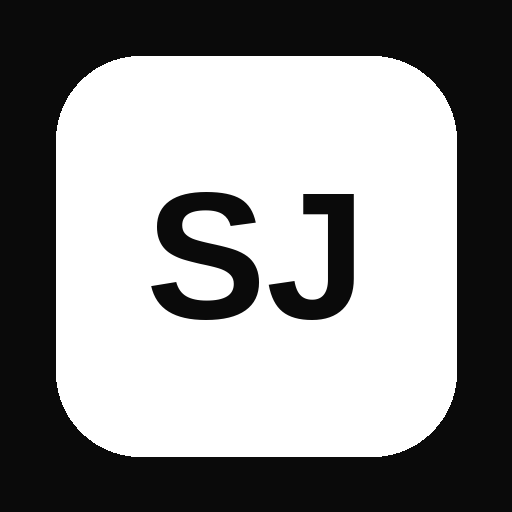
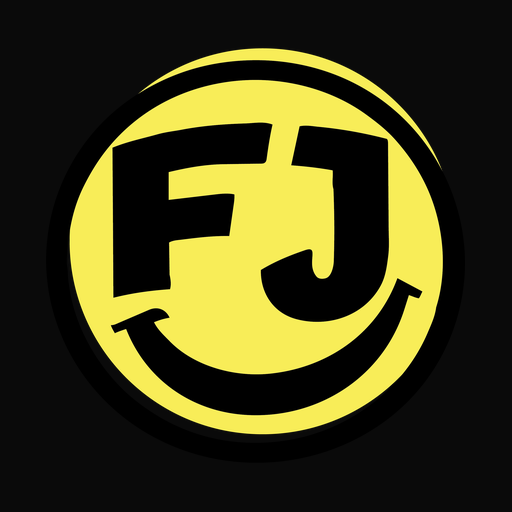
Add files via upload

diff --git a/app.js b/app.js
@@ -209,7 +209,7 @@ function renderHub() {
           <h3>${esc(a.title)}</h3>
           <p>${esc(a.desc)}</p>
           <div class="badge-row">
-            ${c.toOrder ? `<span class="badge warn"><span class="dot"></span>${c.toOrder} k objednání</span>` : `<span class="badge ok"><span class="dot"></span>Vše objednáno</span>`}
+            ${c.toOrder ? `<span class="badge warn"><span class="dot"></span>${c.toOrder} k objednání</span>` : c.unassigned ? '' : `<span class="badge ok"><span class="dot"></span>Vše objednáno</span>`}
             ${c.unassigned ? `<span class="badge bad">${c.unassigned} bez dodavatele</span>` : ''}
           </div>
         </a>`).join('')}
@@ -629,6 +629,7 @@ function renderLogin(msg = '', email = '') {
   $('#user').innerHTML = '';
   $('#view').innerHTML = `
     <section class="hero" style="max-width:420px;margin:0 auto">
+      <img src="logo.png" alt="" width="84" height="84" style="display:block;margin-bottom:18px">
       <div class="eyebrow">Jointshon — FJ · interní nástroje</div>
       <h1>Přihlášení</h1>
       <p>SmartJoi je jen pro tebe. Přihlas se účtem ze Supabase.</p>

diff --git a/index.html b/index.html
@@ -1,4 +1,3 @@
-
 <!doctype html>
 <html lang="cs">
 <head>
@@ -12,14 +11,14 @@
   <meta name="apple-mobile-web-app-title" content="SmartJoi">
   <title>SmartJoi</title>
   <link rel="manifest" href="manifest.webmanifest">
-  <link rel="icon" href="icon.svg" type="image/svg+xml">
+  <link rel="icon" href="favicon.png" type="image/png">
   <link rel="apple-touch-icon" href="icon-180.png">
   <link rel="stylesheet" href="app.css">
 </head>
 <body>
   <header class="topbar">
     <a href="#/" class="brand">
-      <span class="brand-mark">SJ</span>
+      <img class="brand-logo" src="logo.png" alt="Jointshon | FJ" width="38" height="38">
       <span class="brand-text">SmartJoi<small>by Jointshon | FJ</small></span>
     </a>
     <nav id="crumb" class="crumb"></nav>

diff --git a/app.css b/app.css
@@ -33,6 +33,7 @@ button, input, select, textarea { font: inherit; color: inherit; }
   width: 34px; height: 34px; border-radius: 9px; display: grid; place-items: center;
   background: #fff; color: #0a0a0a; font-weight: 800; font-size: 14px; letter-spacing: -.5px;
 }
+.brand-logo { width: 38px; height: 38px; display: block; }
 .brand-text { font-weight: 700; font-size: 17px; letter-spacing: -.3px; display: flex; flex-direction: column; line-height: 1.1; }
 .brand-text small { font-weight: 500; font-size: 11px; color: var(--muted); letter-spacing: .2px; }
 .crumb { display: flex; gap: 8px; align-items: center; color: var(--muted); font-size: 14px; min-width: 0; }
